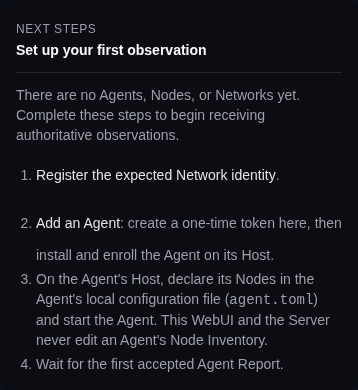
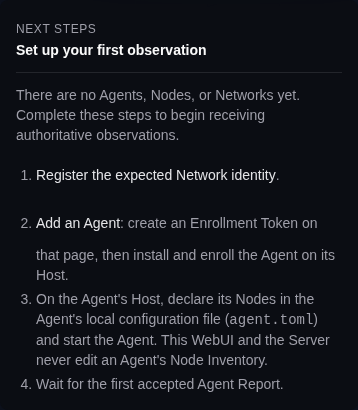
web: address Admin usability review
- Audit: singular wording for one loaded event; a linked event that a filter
  hid is opened again when it returns; softer end-of-pages wording; trailing
  newline.
- Nodes: diagnosticCount naming matches Agents; Clear filters derives its keys
  from the filter state.
- Overview guide names the Enrollment Token and where it is created.
- Evidence spec no longer hides a failed draft fill; after captures refreshed.

diff --git a/platpulse-web/src/pages/AdminAudit.tsx b/platpulse-web/src/pages/AdminAudit.tsx
@@ -68,7 +68,7 @@ export function auditDeepLinkNotice(state: {
       : 'It may be excluded by the current filters; no further events are available for them.'
     : state.more
       ? 'It may not be loaded yet.'
-      : 'No further events are available to load.'
+      : 'No more pages are available to load here.'
   const progress = state.olderLoading
     ? ' Loading older events…'
     : state.olderFailed
@@ -155,8 +155,12 @@ export default function AdminAudit() {
       revealedDeepLink.current = null
       return
     }
+    if (!itemsRef.current.some((item) => item.auditEventId === deepLinkId)) {
+      // Left the loaded results (another filter): reveal it again when it returns.
+      revealedDeepLink.current = null
+      return
+    }
     if (revealedDeepLink.current === deepLinkId) return
-    if (!itemsRef.current.some((item) => item.auditEventId === deepLinkId)) return
     revealedDeepLink.current = deepLinkId
     setExpanded((current) => (current.has(deepLinkId) ? current : new Set(current).add(deepLinkId)))
     const target = document.getElementById('event-' + deepLinkId)
@@ -352,7 +356,7 @@ export default function AdminAudit() {
                 <StatusBadge status="Error" tone="error" />
                 <span className="min-w-0 text-destructive [overflow-wrap:anywhere]">
                   {(query.error instanceof Error ? query.error.message : 'Unable to load the Audit log') +
-                    '. The ' + items.length + ' loaded events stay listed.'}
+                    (items.length === 1 ? '. The loaded event stays listed.' : '. The ' + items.length + ' loaded events stay listed.')}
                 </span>
               </p>
             )}

diff --git a/platpulse-web/src/pages/AdminNodes.tsx b/platpulse-web/src/pages/AdminNodes.tsx
@@ -219,7 +219,7 @@ export default function AdminNodesList() {
     else next.set('sort', value)
     setSearch(next, { replace: false })
   }
-  const clearAllFilters = () => clearFilters(['network', 'health', 'visibility', 'lifecycle'])
+  const clearAllFilters = () => clearFilters(Object.keys(filters) as (keyof NodeFilters)[])
 
   const networks = useMemo(() => {
     const keys = new Set((query.data ?? []).map((node) => node.network_key))
@@ -775,7 +775,7 @@ export function AdminNodeDetail() {
   const [section, setSection, openSection] = useDetailSection()
   const drafts = useDetailDrafts()
   const notices = query.data ? nodeDetailNotices(query.data) : []
-  const diagnosticNotices = notices.length
+  const diagnosticCount = notices.length
 
   if (purged) {
     return (
@@ -892,11 +892,11 @@ export function AdminNodeDetail() {
                 {
                   key: 'diagnostics',
                   label: 'Diagnostics',
-                  marker: diagnosticNotices > 0 ? diagnosticNotices : undefined,
+                  marker: diagnosticCount > 0 ? diagnosticCount : undefined,
                   markerTone: noticesMarkerTone(notices),
                   markerLabel:
-                    diagnosticNotices > 0
-                      ? diagnosticNotices + ' current finding' + (diagnosticNotices === 1 ? '' : 's')
+                    diagnosticCount > 0
+                      ? diagnosticCount + ' current finding' + (diagnosticCount === 1 ? '' : 's')
                       : undefined,
                   content: (
                     <>

diff --git a/platpulse-web/src/pages/AdminAccess.test.tsx b/platpulse-web/src/pages/AdminAccess.test.tsx
@@ -480,6 +480,26 @@ describe('PAGE-ACCESS-AUDIT (Audit review)', () => {
       'Event 6 is not in the 1 loaded event. It may be excluded by the current filters; no further events are available for them.',
     )
   })
+
+  it('opens a linked event again when a filter change brings it back into the results', async () => {
+    mockFetch({
+      '/api/public/v1/session': () => jsonResponse(OWNER_SESSION, 200),
+      '/api/admin/v1/audit': ({ request }) => {
+        const kind = new URL(request.url).searchParams.get('event_kind')
+        return jsonResponse(kind ? { items: [AUDIT.items[0]], nextBefore: null } : { items: AUDIT.items, nextBefore: null }, 200)
+      },
+    })
+    renderAt('/admin/access/audit#event-6')
+    const region = () => screen.queryByRole('region', { name: 'Redacted details for Audit event 6' })
+    await waitFor(() => expect(region()).toBeTruthy(), SLOW)
+    fireEvent.click(screen.getByRole('button', { name: 'Hide details' }))
+    expect(region()).toBeNull()
+    fireEvent.change(screen.getByLabelText('Event kind'), { target: { value: 'viewer_created' } })
+    await waitFor(() => expect(rowIds()).toEqual(['event-7']), SLOW)
+    fireEvent.change(screen.getByLabelText('Event kind'), { target: { value: '' } })
+    await waitFor(() => expect(region()).toBeTruthy(), SLOW)
+    expect(document.querySelector('[data-slot="audit-deep-link-notice"]')).toBeNull()
+  })
 })
 
 function withinRowButton(row: HTMLElement, name: string): HTMLButtonElement {

diff --git a/platpulse-web/src/pages/AdminHome.tsx b/platpulse-web/src/pages/AdminHome.tsx
@@ -205,8 +205,8 @@ function SetupGuide() {
       <ol className="mt-2 list-decimal space-y-1 pl-5 text-sm text-muted-foreground">
         <li><Link className={TEXT_LINK} to="/admin/networks">Register the expected Network identity</Link>.</li>
         <li>
-          <Link className={TEXT_LINK} to="/admin/agents/enroll">Add an Agent</Link>: create a one-time
-          token here, then install and enroll the Agent on its Host.
+          <Link className={TEXT_LINK} to="/admin/agents/enroll">Add an Agent</Link>: create an
+          Enrollment Token on that page, then install and enroll the Agent on its Host.
         </li>
         <li data-slot="setup-local-inventory">
           On the Agent's Host, declare its Nodes in the Agent's local configuration file

diff --git a/platpulse-web/e2e/admin-usability-evidence.spec.ts b/platpulse-web/e2e/admin-usability-evidence.spec.ts
@@ -59,7 +59,7 @@ test('matched Admin usability evidence', async ({ page }, info) => {
       await shot('node-detail-tabs-' + width + '-' + theme, '[data-slot="admin-node-detail"]')
       await page.goto('/admin/agents/' + AGENT + '?section=manage')
       await settle(page)
-      await page.getByRole('textbox', { name: 'Display name' }).first().fill('Unsaved evidence draft').catch(() => {})
+      await page.getByRole('textbox', { name: 'Display name' }).first().fill('Unsaved evidence draft')
       await page.waitForTimeout(200)
       await shot('agent-detail-tabs-' + width + '-' + theme, '[data-slot="admin-detail-sections"] [role="tablist"]')
 
